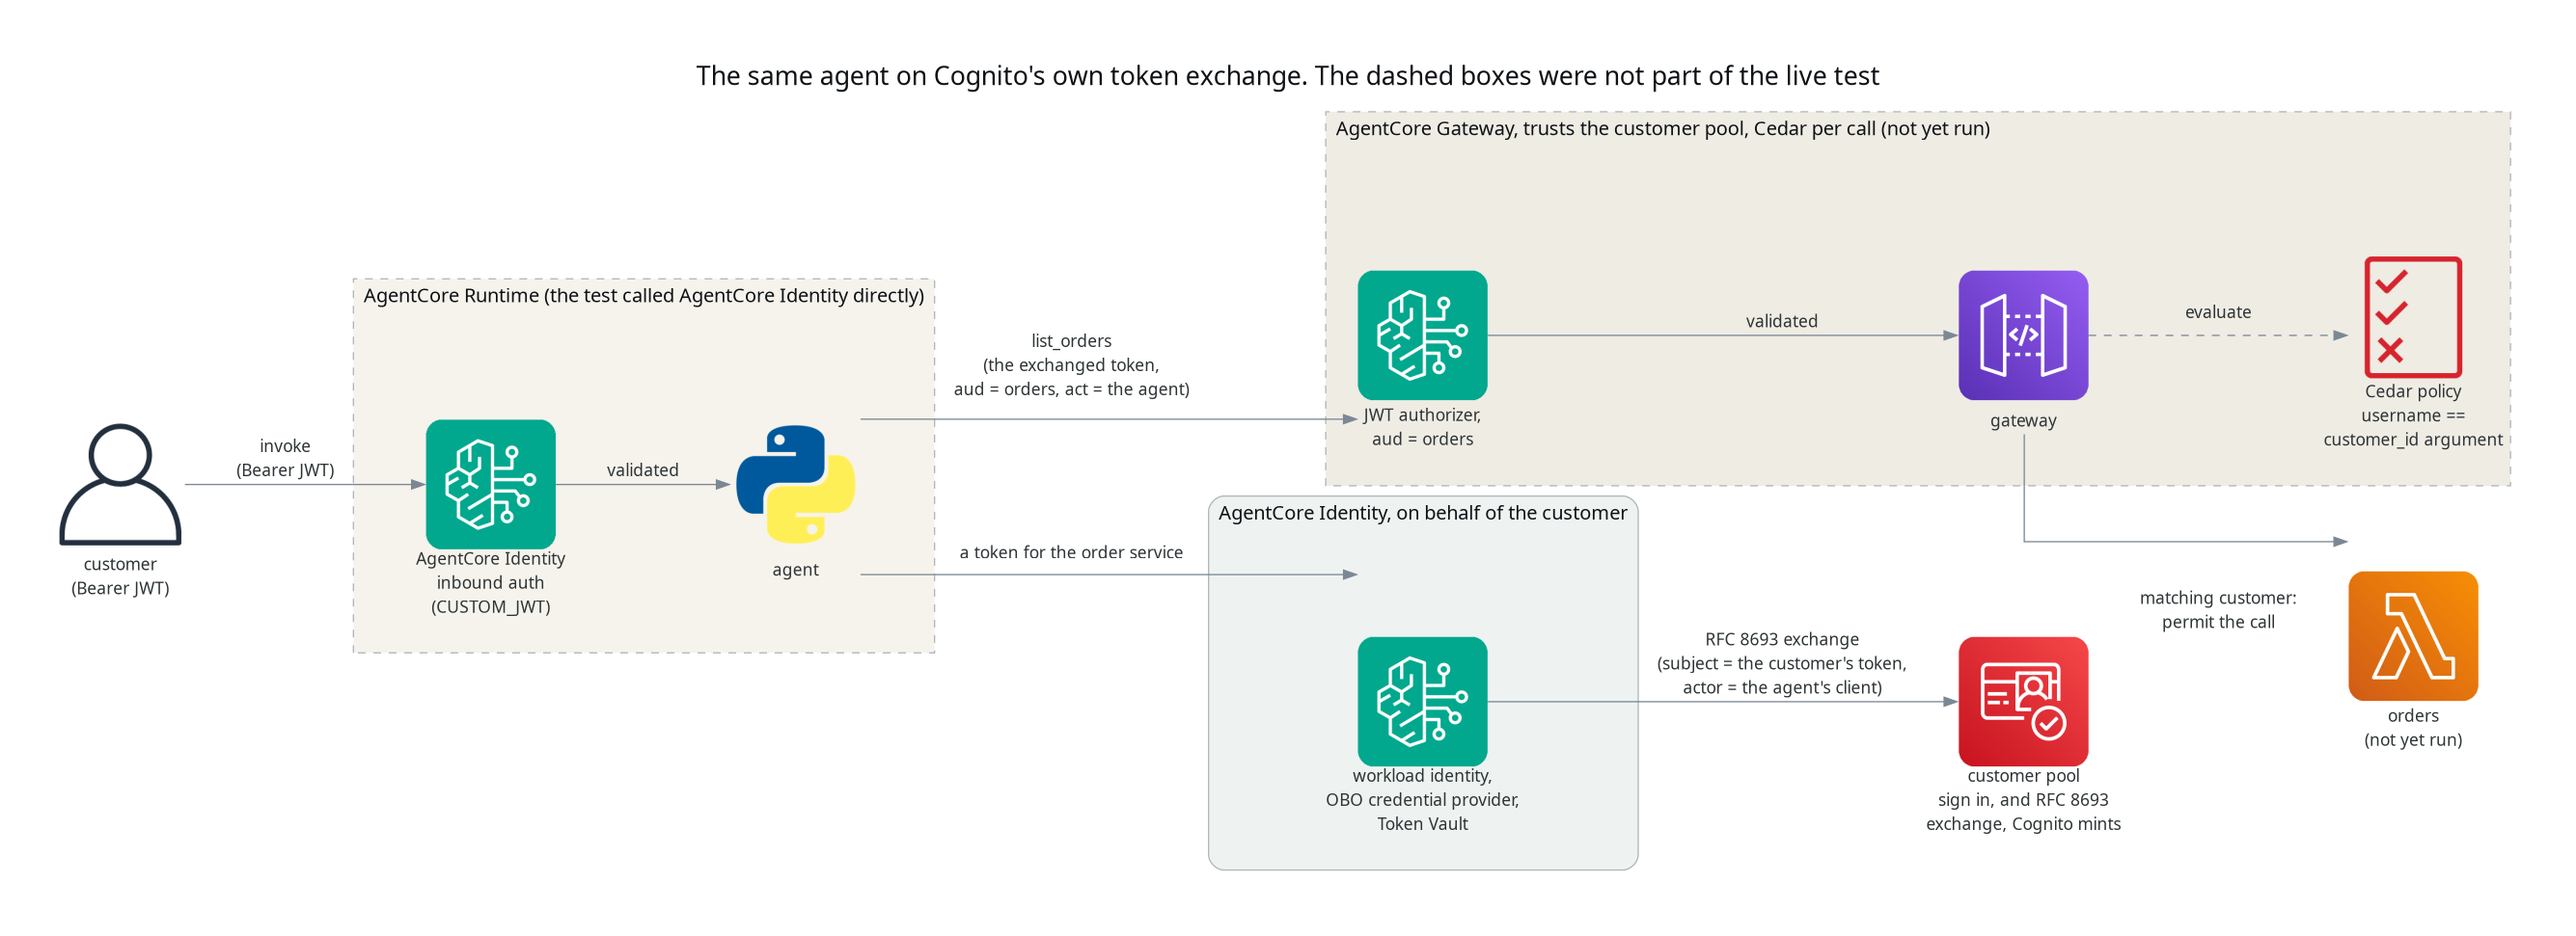
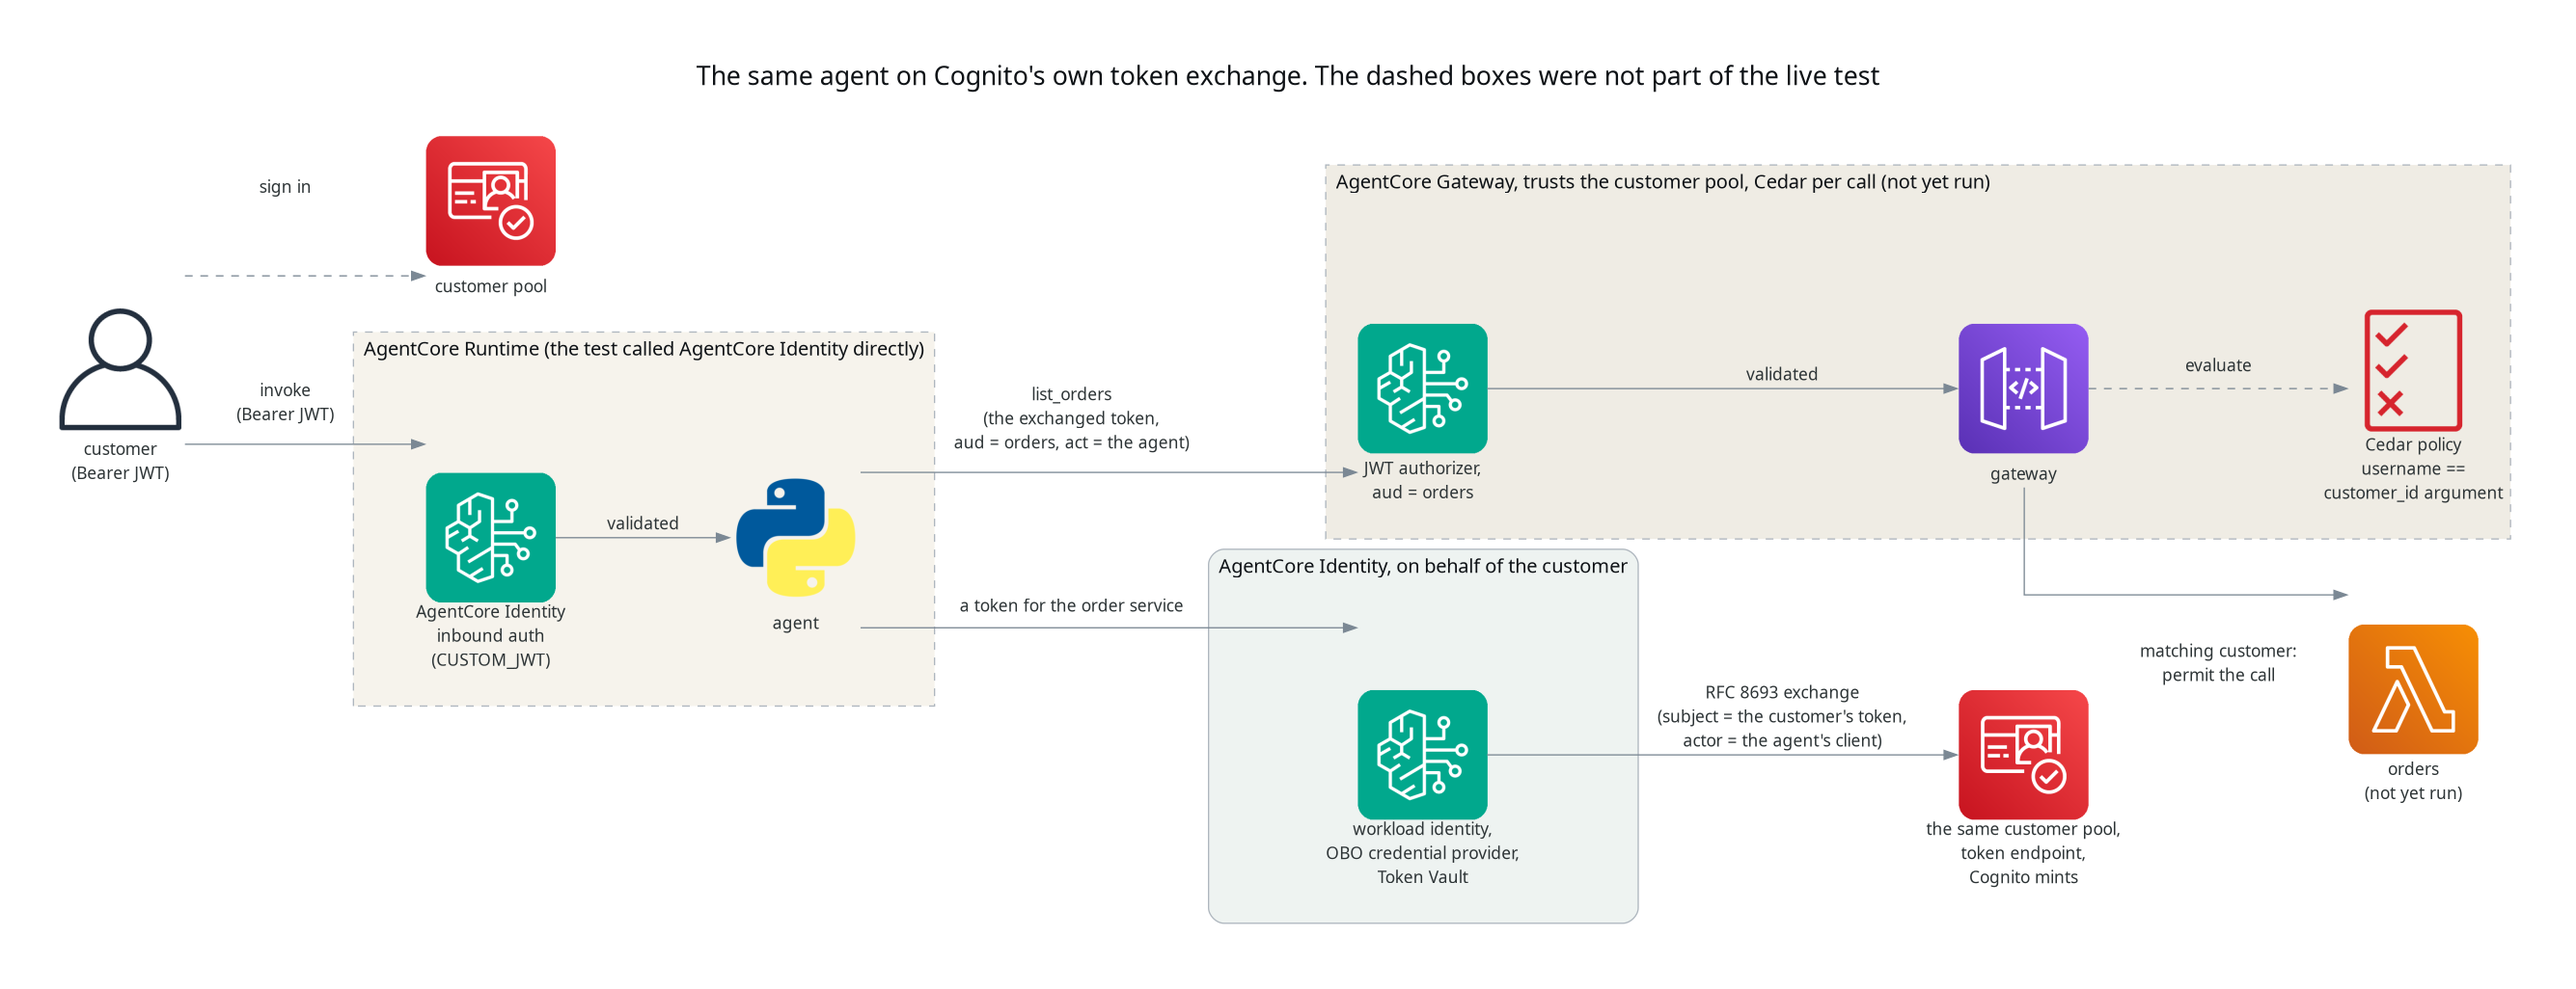
fix: token exchange after diagram shows the customer signing in
Puts back the sign-in to the customer pool, drawn as in post 05's diagram,
and labels the exchange target as the same pool's token endpoint.

diff --git a/agentcore/cognito-token-exchange/diagram.py b/agentcore/cognito-token-exchange/diagram.py
@@ -48,6 +48,7 @@ with Diagram(
     edge_attr=edge_attr,
 ):
     customer = User("customer\n(Bearer JWT)", height=_h(2))
+    sign_in = Cognito("customer pool", height=_h(1))
 
     with Cluster(
         "AgentCore Runtime (the test called AgentCore Identity directly)",
@@ -62,7 +63,7 @@ with Diagram(
     ):
         identity = Bedrock("workload identity,\nOBO credential provider,\nToken Vault", height=_h(3))
 
-    cognito = Cognito("customer pool\nsign in, and RFC 8693\nexchange, Cognito mints", height=_h(3))
+    cognito = Cognito("the same customer pool,\ntoken endpoint,\nCognito mints", height=_h(3))
 
     with Cluster(
         "AgentCore Gateway, trusts the customer pool, Cedar per call (not yet run)",
@@ -74,6 +75,7 @@ with Diagram(
 
     orders = Lambda("orders\n(not yet run)", height=_h(2))
 
+    customer >> Edge(label="sign in", style="dashed") >> sign_in
     customer >> Edge(label="invoke\n(Bearer JWT)") >> rt_auth
     rt_auth >> Edge(label="validated") >> agent
 
